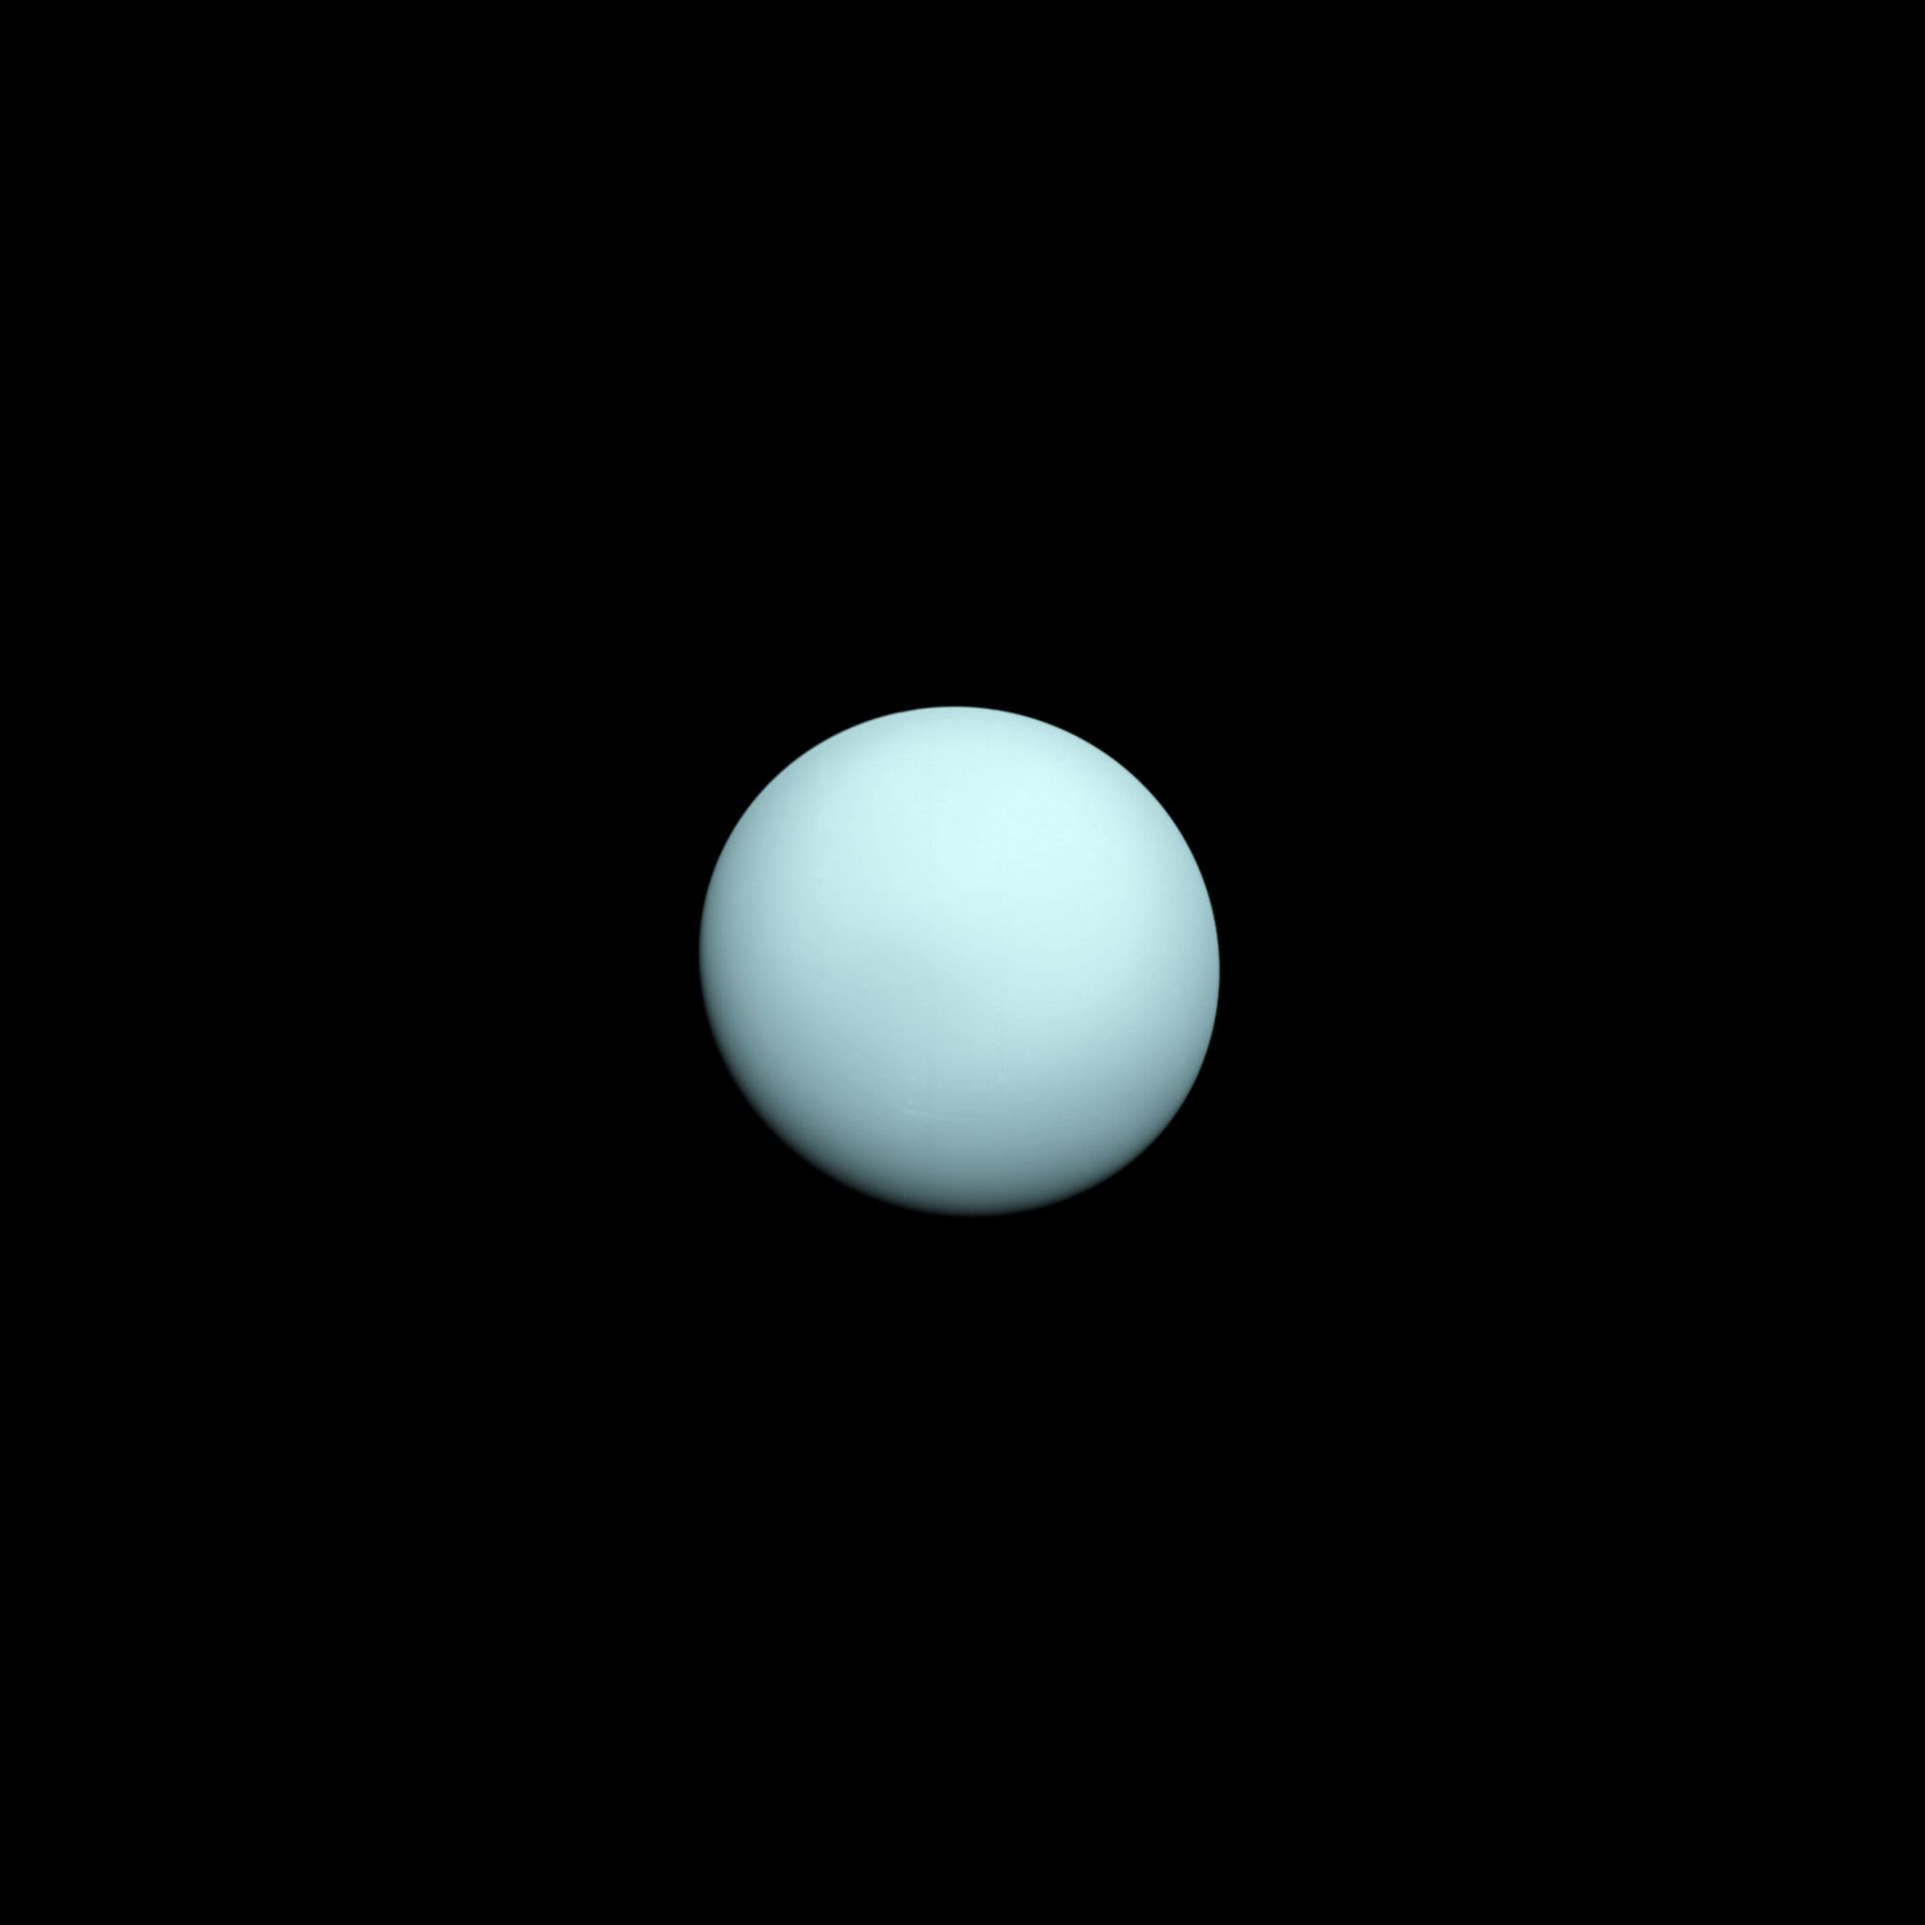
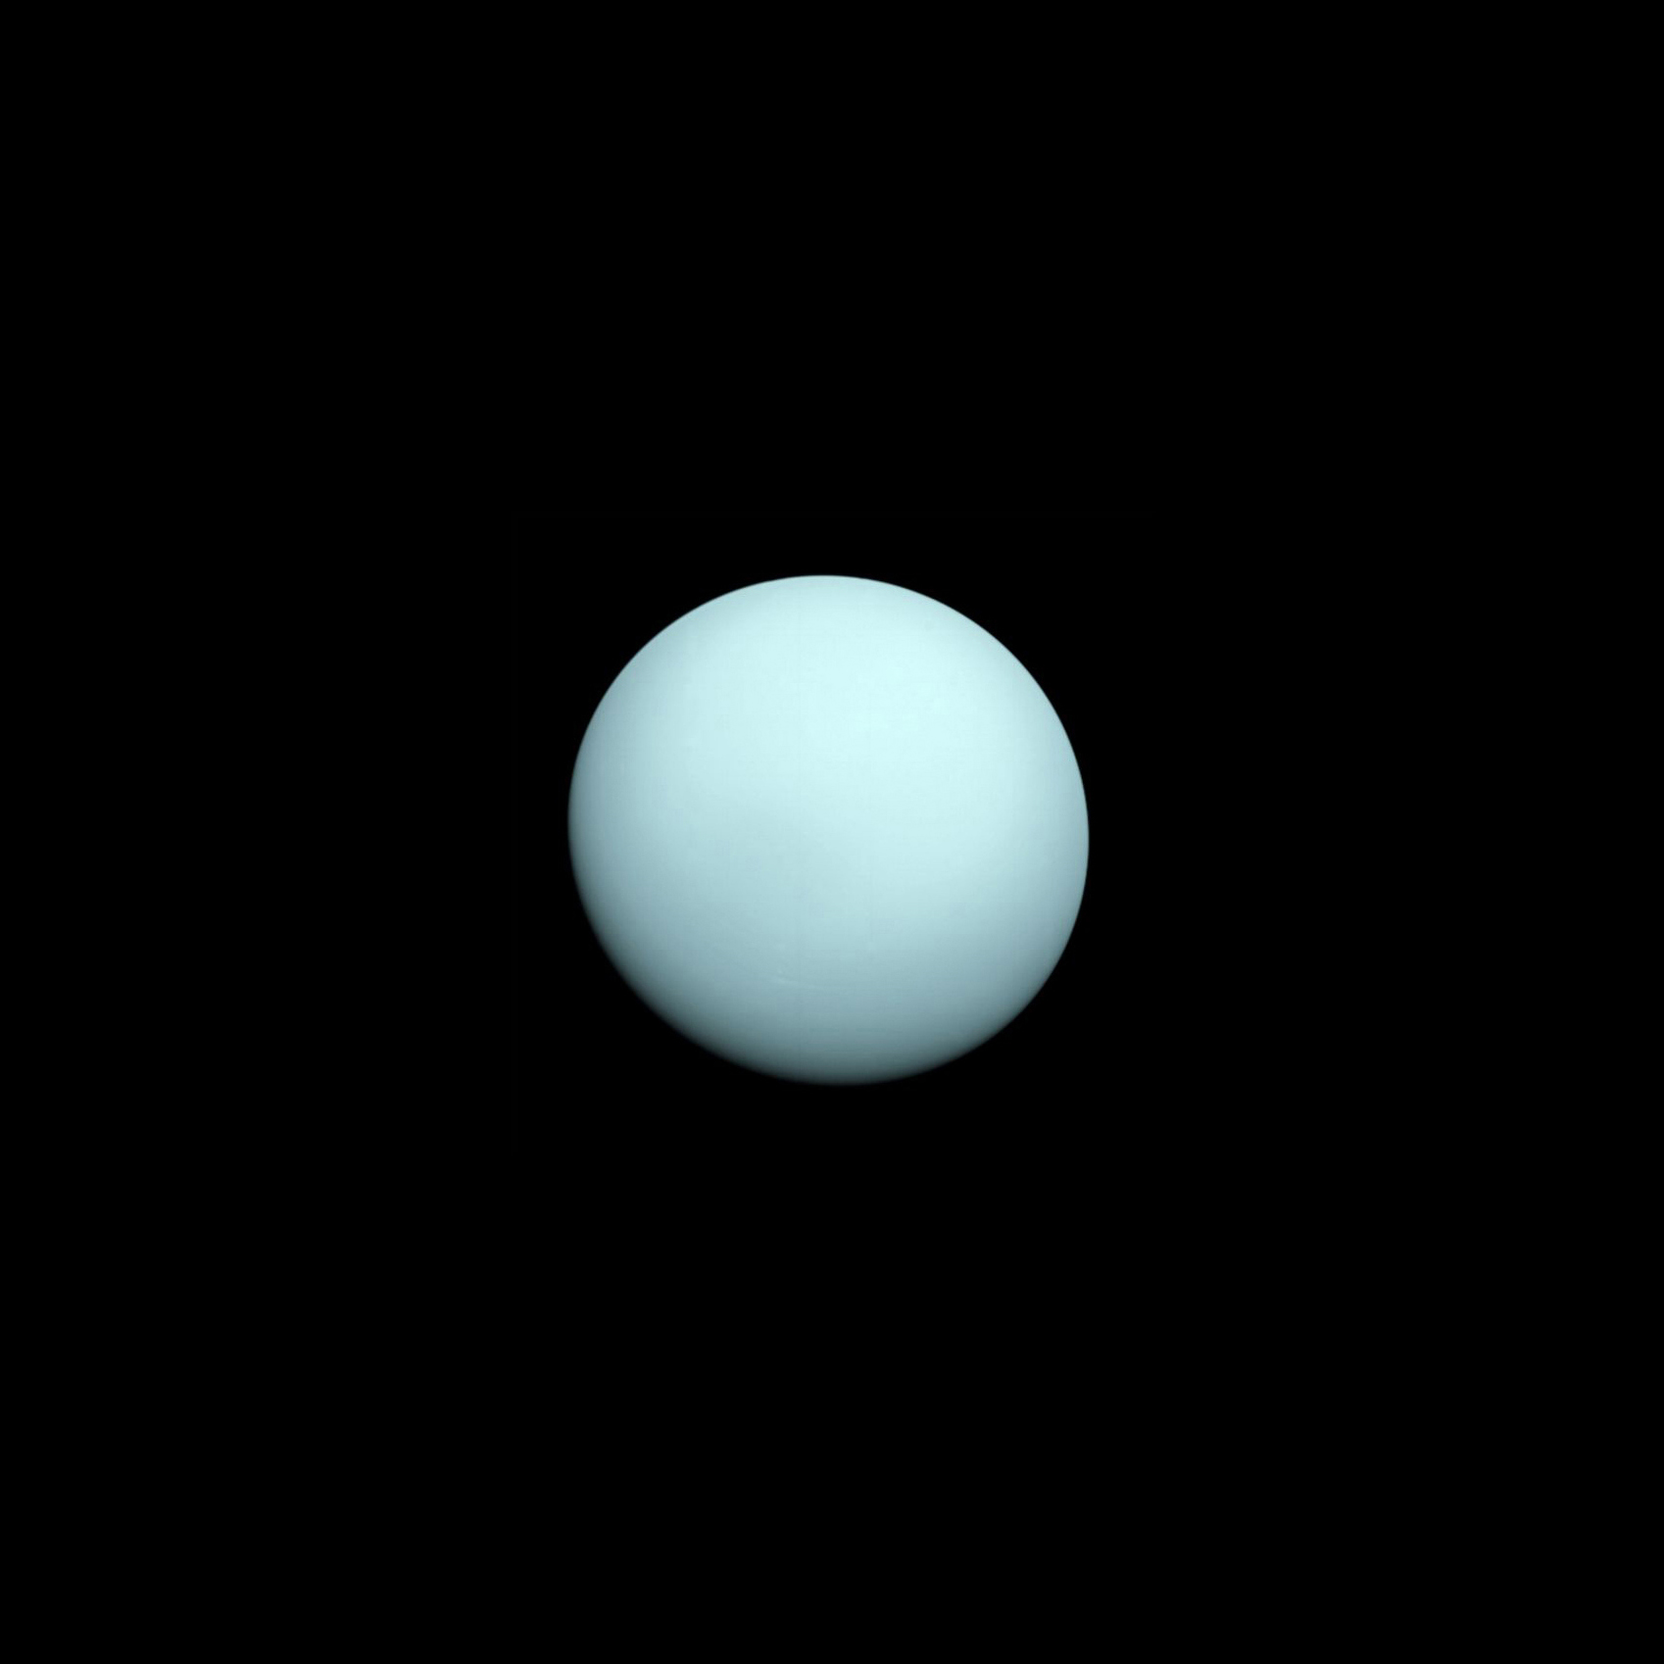
Added functionality so that a navigator decreases the likleyhood of taking damage going through asteroid feild.  Having 2 navigators decreases the chances further.  When moving to new planet, Navigators only help when piloting.  Also changed size of planet images.

Changed region(s): [[0.3433, 0.3433, 0.6555, 0.6555]]

diff --git a/SpaceGame/src/Environment/Events/AsteroidBelt.java b/SpaceGame/src/Environment/Events/AsteroidBelt.java
@@ -1,24 +1,76 @@
 package Environment.Events;
 
+import java.util.ArrayList;
+import java.util.Random;
+
 import Environment.Crew;
 import Environment.GameEnvironment;
 import Environment.MessageBox;
 import Environment.Misc;
+import Environment.CrewMemberTypes.CrewMember;
 
 public class AsteroidBelt extends Event {
 	
-	private final String MESSAGE_ASTEROID_COLLISION = "Your ship has passed through an Asteroid Belt!\nYour shields have taken %d%% damage.";
-	private final int SHIELD_DAMAGE = 50;
+	private final String MESSAGE_ASTEROID_FULL_COLLISION = "Your ship has passed through an Asteroid Belt!\n\nYour shields have taken %d%% damage.";
+	private final String MESSAGE_ASTEROID_PARTIAL_COLLISION = "Your ship has passed through an Asteroid Belt, but your Navigator(s) were able to avoid most of the damage.\n\nYour shields have taken %d%% damage.";
+	private final String MESSAGE_ASTEROID_AVOIDED_COLLISION = "Your ship has passed through an Asteroid Belt, but your Navigator(s) skillfuly piloted your ship through it, and avoided damage";
+	private final int SHIELD_FULL_DAMAGE = 50;
+	private final int SHIELD_PARTIAL_DAMAGE = 15;
 	private final int SHIELD_DAMAGE_RANDOM_RANGE = 10;
+	private final int MAX_NAVIGATORS = 2;
+	private final int HIGHEST_DIE_THAT_AVIODs = 25;
 	
 	public AsteroidBelt(GameEnvironment environment, Crew crew) {
 		super(environment, crew);
 		// TODO Auto-generated constructor stub
 	}
 	
+	private void initiate(int numNavigators) {
+		Random rand = new Random();
+		if (numNavigators == 0) {
+			didNotAvoidAsteroids();
+			return;
+		}
+		
+		// Low die roll is good
+		int navigatorAvoidenceDieRoll = rand.nextInt(100) / Math.min(numNavigators, MAX_NAVIGATORS);
+		if (navigatorAvoidenceDieRoll > HIGHEST_DIE_THAT_AVIODs) {
+			didNotAvoidAsteroids();
+		} else if (navigatorAvoidenceDieRoll <= HIGHEST_DIE_THAT_AVIODs && navigatorAvoidenceDieRoll > HIGHEST_DIE_THAT_AVIODs/2) {
+			avoidedSomeAsteroids();
+		} else if (navigatorAvoidenceDieRoll <= HIGHEST_DIE_THAT_AVIODs/2) {
+			avoidedAllAsteroids();
+		}
+	}
+	/**Takes a list of crew members piloting the ship and determines how many are navigators*/
+	public void initiate(ArrayList<CrewMember> crewPiloting) {
+		int numNavigators = 0;
+		for (CrewMember member: crewPiloting) {
+			if (member.getSpecialization().equals("navigator")) {
+				numNavigators++;
+			}
+		}
+		initiate(numNavigators);
+	}
+	/**If no arguments are given, uses the number of Navigators in the Crew (piloting or not)*/
 	public void initiate() {
-		int shieldDamageTaken = Misc.numberPlusMinusRandom(SHIELD_DAMAGE, SHIELD_DAMAGE_RANDOM_RANGE);
+		ArrayList<CrewMember> allNavigators = crew.getCrewMembersBySpecialization("navigator");
+		initiate(allNavigators.size());
+	}
+	
+	
+	private void avoidedAllAsteroids() {
+		System.out.println("Avoided all collisions");
+		MessageBox messageBoxAvoidedAsteroidCollision = new MessageBox(MESSAGE_ASTEROID_AVOIDED_COLLISION);
+	}
+	private void avoidedSomeAsteroids() {
+		int shieldDamageTaken = Misc.numberPlusMinusRandom(SHIELD_PARTIAL_DAMAGE, SHIELD_DAMAGE_RANDOM_RANGE);
 		this.environment.ship.addToSheildLevel(-shieldDamageTaken);
-		MessageBox messageBoxAsteroidCollision = new MessageBox(String.format(MESSAGE_ASTEROID_COLLISION, shieldDamageTaken));
+		MessageBox messageBoxPartialAsteroidCollision = new MessageBox(String.format(MESSAGE_ASTEROID_PARTIAL_COLLISION, shieldDamageTaken));
+	}
+	private void didNotAvoidAsteroids() {
+		int shieldDamageTaken = Misc.numberPlusMinusRandom(SHIELD_FULL_DAMAGE, SHIELD_DAMAGE_RANDOM_RANGE);
+		this.environment.ship.addToSheildLevel(-shieldDamageTaken);
+		MessageBox messageBoxFullAsteroidCollision = new MessageBox(String.format(MESSAGE_ASTEROID_FULL_COLLISION, shieldDamageTaken));
 	}
 }

diff --git a/SpaceGame/src/Environment/Crew.java b/SpaceGame/src/Environment/Crew.java
@@ -101,7 +101,7 @@ public class Crew {
 		}
 	}
 	
-	/**Return an ArrayList of CrewMembers with a given name*/
+	/**Return an ArrayList of CrewMembers with a given name (don't need to be alive)*/
 	public ArrayList<CrewMember> getCrewMembersByName(String name) {
 		ArrayList<CrewMember> matchingCrew = new ArrayList<CrewMember>(MAX_CREW_MEMBERS);
 		for (CrewMember member: members) {
@@ -111,21 +111,27 @@ public class Crew {
 		}
 		return matchingCrew;
 	}
-	/**Return an ArrayList of CrewMembers with a given specialization*/
-	public ArrayList<CrewMember> getCrewMembersBySpecialization(String specialization) {
+	/**Return an ArrayList of CrewMembers with a given specialization with boolean deadOrAlive which includes dead crew if true*/
+	public ArrayList<CrewMember> getCrewMembersBySpecialization(String specialization, boolean deadOrAlive) {
 		ArrayList<CrewMember> matchingCrew = new ArrayList<CrewMember>(MAX_CREW_MEMBERS);
 		for (CrewMember member: members) {
-			if (member.getSpecialization().toLowerCase().matches(specialization.toLowerCase())) {
+			if (member.getSpecialization().toLowerCase().matches(specialization.toLowerCase()) && (member.isAlive() || deadOrAlive)) {
 				matchingCrew.add(member);
 			}
 		}
 		return matchingCrew;
 	}
-
+	/**Return an ArrayList of CrewMembers with a given specialization and are alive*/
+	public ArrayList<CrewMember> getCrewMembersBySpecialization(String specialization) {
+		return getCrewMembersBySpecialization(specialization, false);
+	}
+	
+	/**Returns the array of CrewMembers held in Crew*/
 	public CrewMember[] getCrewMemberArray() {
 		return members;
 	}
 	
+	/**Returns number of live CrewMembers in Crew*/
 	public int numLiveCrew() {
 		int numLive = 0;
 		for (int i=0; i < members.length; i++) {
@@ -135,7 +141,7 @@ public class Crew {
 		}
 		return numLive;
 	}
-	/**Returns an array of only CrewMembers that are alive*/
+	/**Returns an array of all CrewMembers that are alive*/
 	public CrewMember[] getLiveCrewMemberArray() {
 		CrewMember[] liveMembers = new CrewMember[this.numLiveCrew()];
 		int i = 0;
@@ -163,7 +169,7 @@ public class Crew {
 		}
 	}
 	
-	
+	/**Returns true if any of the crew are alive*/
 	public boolean isAlive() {
 		for (CrewMember member: members) {
 			if (member.isAlive()) {

diff --git a/SpaceGame/src/Environment/GameEnvironment.java b/SpaceGame/src/Environment/GameEnvironment.java
@@ -33,7 +33,7 @@ public class GameEnvironment {
 	
 	private final int MAX_NUM_PATIENTS_HEALED = 2;
 	
-	private CrewMember[] testMembers = {new Captain("John"), new Navigator("Cortana"), new Doctor("Keys"), new Engineer("Arbiter")};
+	private CrewMember[] testMembers = {new Navigator("John"), new Navigator("Cortana"), new Doctor("Keys"), new Engineer("Arbiter")};
 	
 	private int totalDays = 0;
 	private int currentDay = 0;
@@ -50,7 +50,10 @@ public class GameEnvironment {
 //					new AlienPirates(this, crew),
 					new AsteroidBelt(this, crew)))
 			);
-	
+	private RandomEventGenerator nextPlanetRandomEvents = new RandomEventGenerator(
+			new ArrayList<Event>(Arrays.asList(
+					new AsteroidBelt(this, crew)))
+			);
 	
 	private MainScreen window;
 	
@@ -75,7 +78,8 @@ public class GameEnvironment {
 		}
 		currentLocation = new Planet();
 		ship.setLocation(currentLocation);
-		// Do asteroid belt
+		AsteroidBelt nextPlanetAsteroids = new AsteroidBelt(this, crew);  // Asteroid Belt
+		nextPlanetAsteroids.initiate(membersWithAction);
 		window.update();
 	}
 	public void startNextDay() {

diff --git a/SpaceGame/src/Environment/Events/Event.java b/SpaceGame/src/Environment/Events/Event.java
@@ -1,7 +1,10 @@
 package Environment.Events;
 
+import java.util.ArrayList;
+
 import Environment.Crew;
 import Environment.GameEnvironment;
+import Environment.CrewMemberTypes.CrewMember;
 
 public class Event {
 	
@@ -17,6 +20,9 @@ public class Event {
 	
 	public void initiate() {
 		System.out.println("Event Obj Initiated.  Nothing Happens");
+	}
+	public void initiate(ArrayList<CrewMember> crewDurringEvent) {
+		initiate();
 	}
 	
 }

diff --git a/SpaceGame/src/Environment/Locations/Planet.java b/SpaceGame/src/Environment/Locations/Planet.java
@@ -50,7 +50,9 @@ public class Planet extends Location {
 		
 		if (!imagesShuffled) {
 			Collections.shuffle(planetFileNames);
+			imagesShuffled = true;
 		}
+		System.out.println(planetIndex);
 		planetIndex = (planetIndex + 1) % planetFileNames.size();  // Increment Index and wrap
 	}
 	public Planet(String name) {
